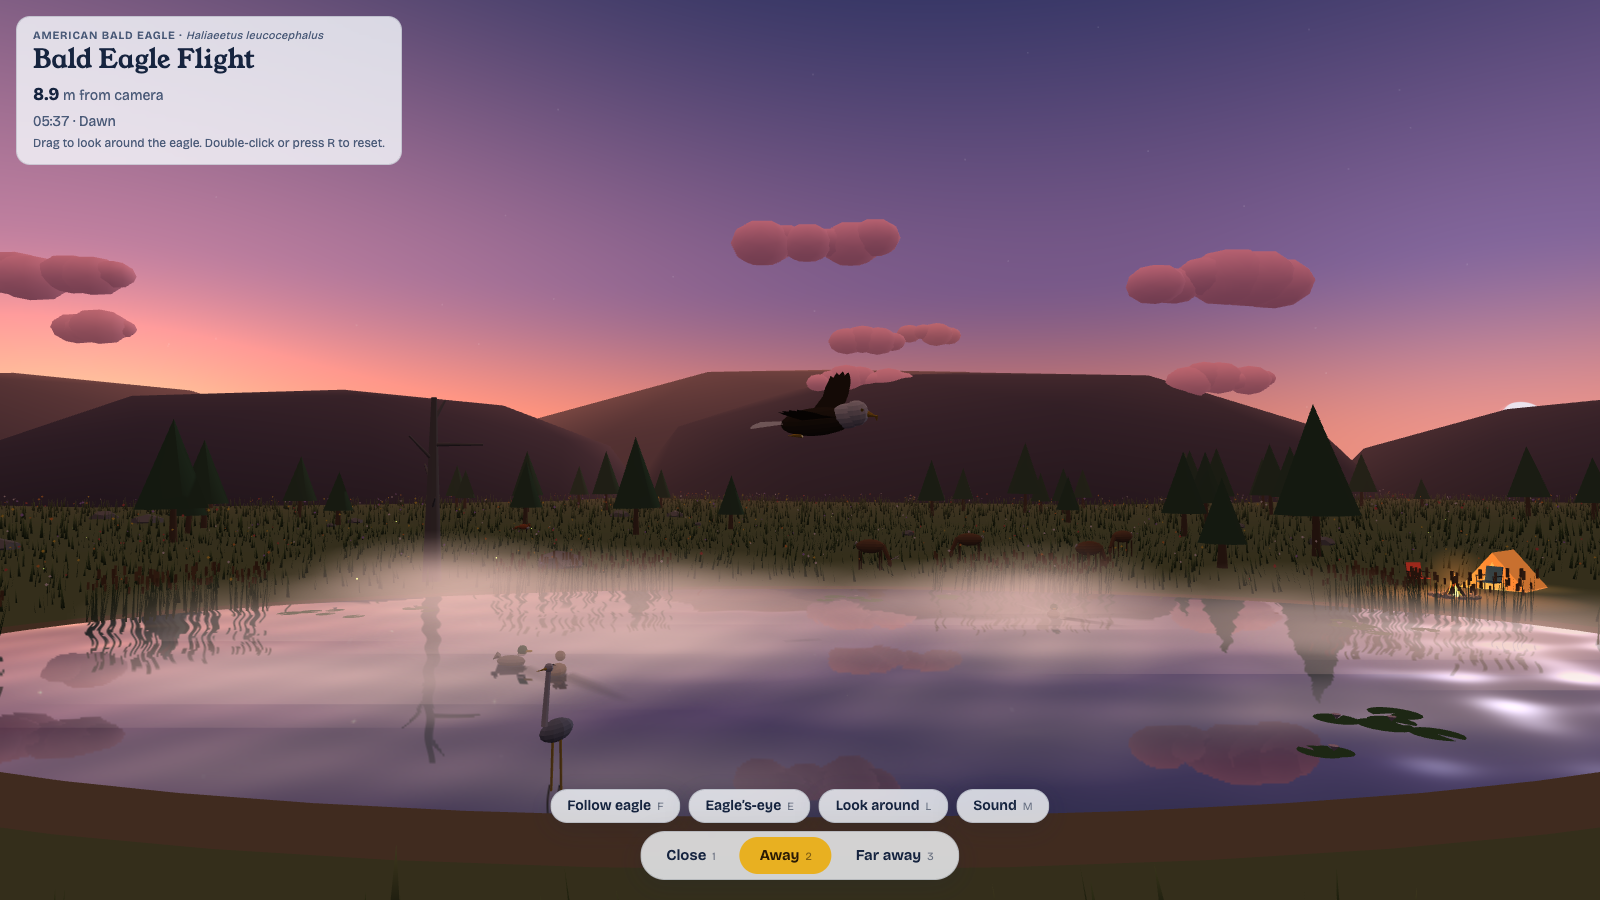
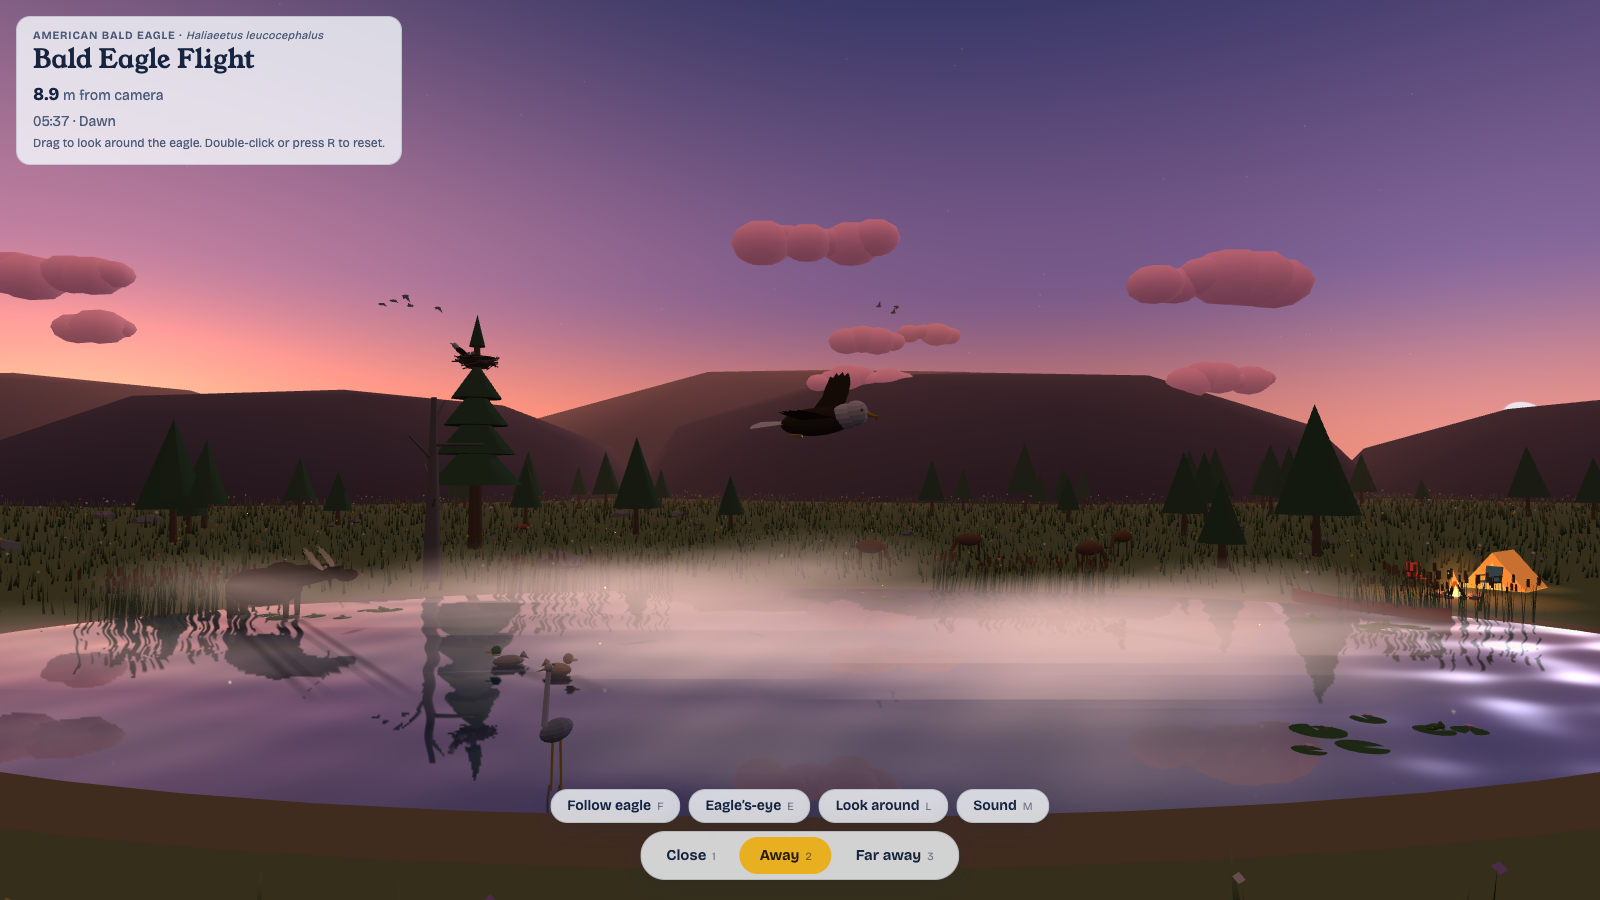
Update README screenshot to show the nest and the moose
Claude-Session: https://claude.ai/code/session_016x3M1bdifzXgNFGSBJFckF

Changed region(s): [[0.0, 0.56, 1.0, 0.9022], [0.2812, 0.3733, 0.3125, 0.5289], [0.2812, 0.9956, 0.3125, 1.0]]

diff --git a/README.md b/README.md
@@ -2,7 +2,7 @@
 
 An animated 3D scene of an American bald eagle (*Haliaeetus leucocephalus*) over a lake. The day loops continuously, with weather, wildlife and a lakeside campsite. Everything lives in a single file, `bald-eagle-flight.html`, built with [three.js](https://threejs.org/) r128.
 
-![The eagle gliding over the misty lake at dawn, with ducks, a heron and the campsite tent on the far shore](docs/screenshot.png)
+![The eagle gliding over the misty lake at dawn, with the nest pine and a wading moose on the left, ducks and a heron on the water and the campsite tent on the far shore](docs/screenshot.png)
 
 ## Running it
 
